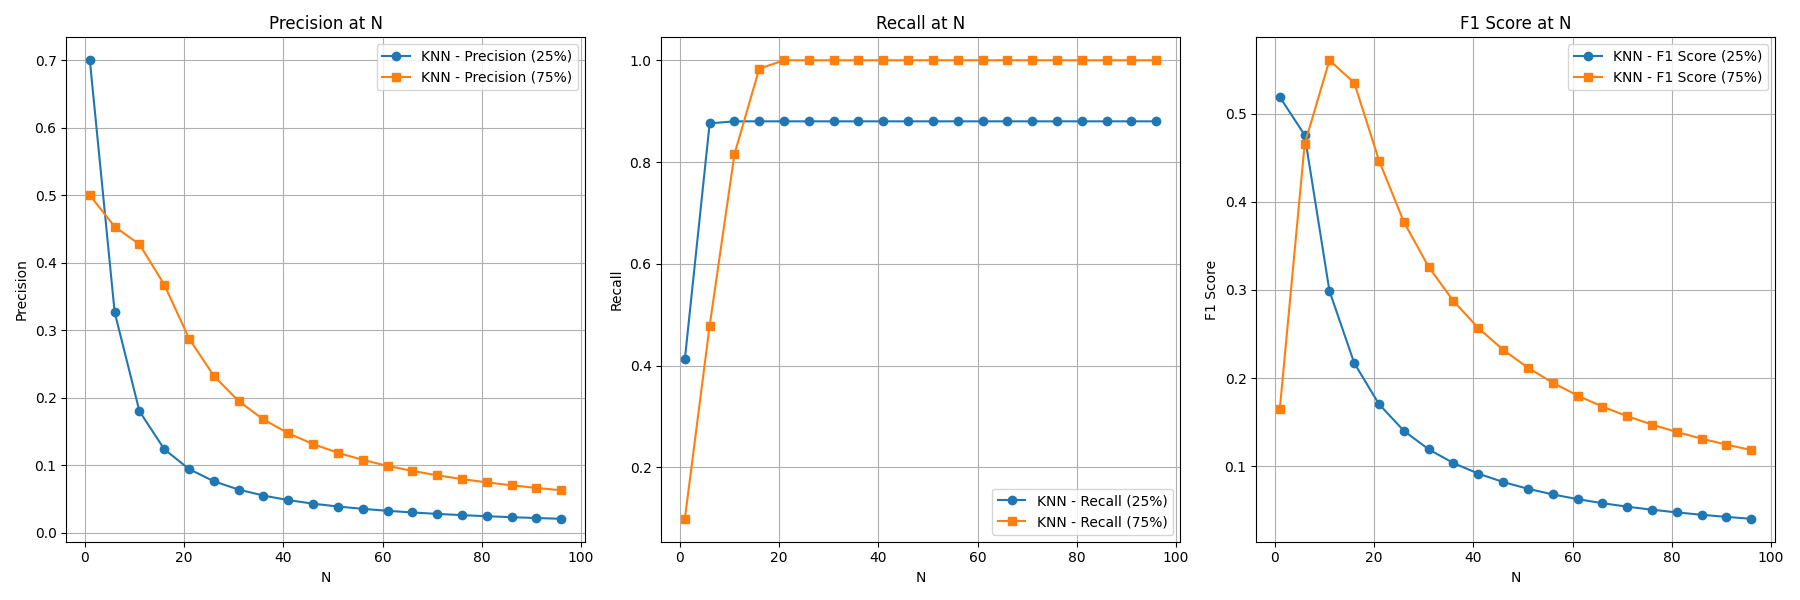
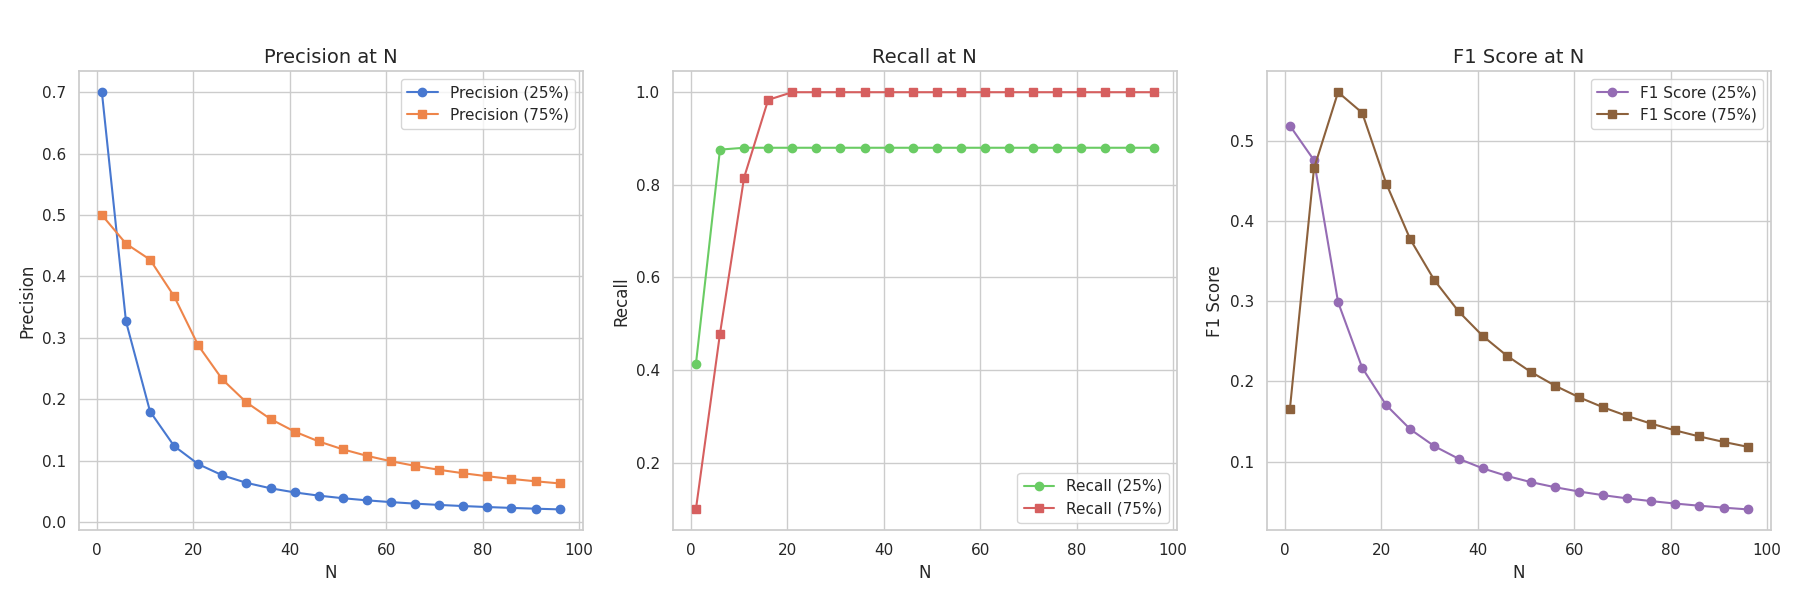
Improve tasks and readme

diff --git a/task2.py b/task2.py
@@ -3,6 +3,7 @@ from collections import defaultdict
 import matplotlib.pyplot as plt
 import numpy as np
 import pandas as pd
+import seaborn as sns
 from surprise import SVD, Dataset, KNNWithMeans, Reader
 from surprise.accuracy import mae
 from surprise.model_selection import train_test_split
@@ -61,21 +62,32 @@ def calculate_f1_score(precision, recall):
     )
 
 
-def plot_comparison_metrics(metrics):
+def plot_comparison_metrics(metrics_25, metrics_75):
     """
-    Plot comparison metrics in a 2 by 2 grid.
+    Plot comparison metrics.
     """
-    fig, axs = plt.subplots(2, 2, figsize=(12, 10))
-    colors = ["brown", "orange"]
-
     metrics_titles = ["MAE", "Precision", "Recall", "F1 Score"]
-    for i, metric in enumerate(metrics_titles):
-        row, col = divmod(i, 2)
-        axs[row, col].bar(
-            ["SVD", "KNN"], [metrics["SVD"][i], metrics["KNN"][i]], color=colors
-        )
-        axs[row, col].set_title(f"{metric} Comparison")
-        axs[row, col].set_ylabel(metric)
+    svd_25 = metrics_25["SVD"]
+    knn_25 = metrics_25["KNN"]
+    svd_75 = metrics_75["SVD"]
+    knn_75 = metrics_75["KNN"]
+
+    sns.set(style="whitegrid")
+    plt.figure(figsize=(12, 8))
+
+    x = np.arange(len(metrics_titles))
+    width = 0.2
+
+    palette = sns.color_palette("Set2")
+    plt.bar(x - 1.5 * width, svd_25, width, label="SVD (25%)", color=palette[0])
+    plt.bar(x - 0.5 * width, knn_25, width, label="K-NN (25%)", color=palette[1])
+    plt.bar(x + 0.5 * width, svd_75, width, label="SVD (75%)", color=palette[2])
+    plt.bar(x + 1.5 * width, knn_75, width, label="K-NN (75%)", color=palette[3])
+
+    plt.xlabel("Metrics", fontsize=14)
+    plt.ylabel("Score", fontsize=14)
+    plt.xticks(ticks=x, labels=metrics_titles, fontsize=12)
+    plt.legend(title="Models and Test Ratios", title_fontsize="13", fontsize=11)
 
     plt.tight_layout()
     plt.show()
@@ -101,42 +113,33 @@ def evaluate_model(algo, train_set, test_set, n=5, threshold=4):
 def main():
     data = load_csv()
 
-    # Split dataset
-    train_set, test_set = train_test_split(
-        data, test_size=0.75, random_state=22
-    )  # 75% missing ratings
+    # Metrics storage for both split cases
+    metrics_25 = {"SVD": [], "KNN": []}
+    metrics_75 = {"SVD": [], "KNN": []}
 
-    # SVD Model Evaluation
-    algo_svd = SVD(random_state=3)
-    mae_svd, pre_svd, recall_svd, f1_svd = evaluate_model(algo_svd, train_set, test_set)
+    for test_size, metrics in [(0.25, metrics_25), (0.75, metrics_75)]:
+        # Split dataset based on the specified test size
+        train_set, test_set = train_test_split(
+            data, test_size=test_size, random_state=22
+        )
 
-    # KNN Model Evaluation
-    sim_options_knn = {
-        "name": "pearson",
-        "user_based": True,
-    }
-    algo_knn = KNNWithMeans(k=10, sim_options=sim_options_knn, verbose=False)
-    mae_knn, pre_knn, recall_knn, f1_knn = evaluate_model(algo_knn, train_set, test_set)
+        # SVD Model Evaluation
+        algo_svd = SVD(random_state=3)
+        mae_svd, pre_svd, recall_svd, f1_svd = evaluate_model(
+            algo_svd, train_set, test_set
+        )
+        metrics["SVD"] = [mae_svd, pre_svd, recall_svd, f1_svd]
 
-    # Print results
-    print("SVD Model Results:")
-    print(f"MAE: {mae_svd}")
-    print(f"Precision: {pre_svd}")
-    print(f"Recall: {recall_svd}")
-    print(f"F1 Score: {f1_svd}")
-
-    print("\nKNN Model Results:")
-    print(f"MAE: {mae_knn}")
-    print(f"Precision: {pre_knn}")
-    print(f"Recall: {recall_knn}")
-    print(f"F1 Score: {f1_knn}")
+        # KNN Model Evaluation
+        sim_options_knn = {"name": "pearson", "user_based": True}
+        algo_knn = KNNWithMeans(k=10, sim_options=sim_options_knn, verbose=False)
+        mae_knn, pre_knn, recall_knn, f1_knn = evaluate_model(
+            algo_knn, train_set, test_set
+        )
+        metrics["KNN"] = [mae_knn, pre_knn, recall_knn, f1_knn]
 
     # Plot results
-    metrics = {
-        "SVD": [mae_svd, pre_svd, recall_svd, f1_svd],
-        "KNN": [mae_knn, pre_knn, recall_knn, f1_knn],
-    }
-    plot_comparison_metrics(metrics)
+    plot_comparison_metrics(metrics_25, metrics_75)
 
 
 if __name__ == "__main__":

diff --git a/task3.py b/task3.py
@@ -4,6 +4,7 @@ from tkinter import N
 import matplotlib.pyplot as plt
 import numpy as np
 import pandas as pd
+import seaborn as sns
 from surprise import SVD, Dataset, KNNWithMeans, Reader
 from surprise.model_selection import train_test_split
 
@@ -81,44 +82,48 @@ def plot_results(results_25, results_75, N_list, model_name):
     precision_list_25, recall_list_25, f1_list_25 = results_25
     precision_list_75, recall_list_75, f1_list_75 = results_75
 
+    sns.set(style="whitegrid")
+    palette = sns.color_palette("muted")
+
     _, axes = plt.subplots(1, 3, figsize=(18, 6))
 
-    # Plot Precision
     axes[0].plot(
-        N_list, precision_list_25, marker="o", label=f"{model_name} - Precision (25%)"
+        N_list, precision_list_25, marker="o", color=palette[0], label="Precision (25%)"
     )
     axes[0].plot(
-        N_list, precision_list_75, marker="s", label=f"{model_name} - Precision (75%)"
+        N_list, precision_list_75, marker="s", color=palette[1], label="Precision (75%)"
     )
-    axes[0].set_title("Precision at N")
-    axes[0].set_xlabel("N")
-    axes[0].set_ylabel("Precision")
+    axes[0].set_title("Precision at N", fontsize=14)
+    axes[0].set_xlabel("N", fontsize=12)
+    axes[0].set_ylabel("Precision", fontsize=12)
     axes[0].legend()
     axes[0].grid(True)
 
-    # Plot Recall
     axes[1].plot(
-        N_list, recall_list_25, marker="o", label=f"{model_name} - Recall (25%)"
+        N_list, recall_list_25, marker="o", color=palette[2], label="Recall (25%)"
     )
     axes[1].plot(
-        N_list, recall_list_75, marker="s", label=f"{model_name} - Recall (75%)"
+        N_list, recall_list_75, marker="s", color=palette[3], label="Recall (75%)"
     )
-    axes[1].set_title("Recall at N")
-    axes[1].set_xlabel("N")
-    axes[1].set_ylabel("Recall")
+    axes[1].set_title("Recall at N", fontsize=14)
+    axes[1].set_xlabel("N", fontsize=12)
+    axes[1].set_ylabel("Recall", fontsize=12)
     axes[1].legend()
     axes[1].grid(True)
 
-    # Plot F1 Score
-    axes[2].plot(N_list, f1_list_25, marker="o", label=f"{model_name} - F1 Score (25%)")
-    axes[2].plot(N_list, f1_list_75, marker="s", label=f"{model_name} - F1 Score (75%)")
-    axes[2].set_title("F1 Score at N")
-    axes[2].set_xlabel("N")
-    axes[2].set_ylabel("F1 Score")
+    axes[2].plot(
+        N_list, f1_list_25, marker="o", color=palette[4], label="F1 Score (25%)"
+    )
+    axes[2].plot(
+        N_list, f1_list_75, marker="s", color=palette[5], label="F1 Score (75%)"
+    )
+    axes[2].set_title("F1 Score at N", fontsize=14)
+    axes[2].set_xlabel("N", fontsize=12)
+    axes[2].set_ylabel("F1 Score", fontsize=12)
     axes[2].legend()
     axes[2].grid(True)
 
-    plt.tight_layout()
+    plt.tight_layout(rect=[0, 0, 1, 0.95])
     plt.show()
 
 

diff --git a/task1.py b/task1.py
@@ -1,7 +1,7 @@
 import matplotlib.pyplot as plt
-from surprise import Dataset, KNNBasic, accuracy
+import seaborn as sns
+from surprise import Dataset, KNNBasic, Reader, accuracy
 from surprise.model_selection import train_test_split
-from surprise.reader import Reader
 
 
 def main():
@@ -11,7 +11,6 @@ def main():
 
     test_sizes = [0.25, 0.75]
     mae_results = {0.25: [], 0.75: []}
-
     k_values = range(1, 50)
 
     for test_size in test_sizes:
@@ -20,21 +19,31 @@ def main():
         for k in k_values:
             algo = KNNBasic(k=k, sim_options={"user_based": True})
             algo.fit(train_set)
-
             predictions = algo.test(test_set)
-
             mae = accuracy.mae(predictions, verbose=False)
             mae_results[test_size].append(mae)
 
-    plt.figure(figsize=(12, 6))
+    sns.set(style="whitegrid")
+    plt.figure(figsize=(14, 7))
+    sns.lineplot(
+        x=k_values,
+        y=mae_results[0.25],
+        label="25% Missing Ratings",
+        marker="o",
+        color="b",
+    )
+    sns.lineplot(
+        x=k_values,
+        y=mae_results[0.75],
+        label="75% Missing Ratings",
+        marker="s",
+        color="orange",
+    )
 
-    plt.plot(k_values, mae_results[0.25], label="25% Missing Ratings", marker="o")
-    plt.plot(k_values, mae_results[0.75], label="75% Missing Ratings", marker="s")
-
-    plt.xlabel("K (Number of Neighbors)")
-    plt.ylabel("MAE (Mean Absolute Error)")
-    plt.legend()
-    plt.grid()
+    plt.xlabel("K (Number of Neighbors)", fontsize=14)
+    plt.ylabel("MAE (Mean Absolute Error)", fontsize=14)
+    plt.legend(title="Dataset Split", loc="upper right", fontsize=12)
+    plt.grid(visible=True)
 
     plt.show()
 

diff --git a/README.md b/README.md
@@ -1,6 +1,6 @@
 # Collaborative Filtering Benchmarking
 
-This repository contains the solution for collaborative filtering tasks, implemented with Python’s Surprise library. The project includes optimizing user-based K-Nearest Neighbors (K-N) by tuning the number of neighbors (K) to minimize Mean Absolute Error (MAE) under different levels of sparsity, addressing sparsity issues with SVD (Singular Value Decomposition) and its Funk variant, and comparing the performance of K-NN and SVD in generating Top-N recommendations with varying levels of missing ratings.
+This repository contains the solution for collaborative filtering tasks, implemented with Python’s Surprise library. The project includes optimizing user-based K-Nearest Neighbors (K-NN) by tuning the number of neighbors (K) to minimize Mean Absolute Error (MAE) under different levels of sparsity, addressing sparsity issues with SVD (Singular Value Decomposition) and its Funk variant, and comparing the performance of K-NN and SVD in generating Top-N recommendations with varying levels of missing ratings.
 
 ## Setup
 
@@ -48,7 +48,7 @@ The MAE is consistently lower for the 25% missing ratings case across all K valu
 
 <br>
 <div align="center">
-  <img src="figures/task1.png" width="900" height="auto"/>
+  <img src="figures/task1.png" width="800" height="auto"/>
   <br><br>
   <em>MAE vs. K for 25% and 75% missing ratings.</em>
 </div>
@@ -56,8 +56,8 @@ The MAE is consistently lower for the 25% missing ratings case across all K valu
 
 For both sparsity levels, it MAE decreases as K increases, reaching a minimum before leveling off or slightly increasing. For this dataset the optimal K values are:
 
-- 25% missing ratings: the lowest MAE = 0.779 occurs around K = 22.
-- 75% missing ratings: the lowest MAE = 0.822 occurs around K = 24.
+- 25% missing ratings: 22 with MAE equal to 0.779.
+- 75% missing ratings: 24 with MAE equal to 0.822.
 
 ## Task 2
 
@@ -73,17 +73,9 @@ In case of 25% missing ratings, Funk SVD yields a higher MAE than K-NN, while in
 
 <br>
 <div align="center">
-  <img src="figures/task2_25.png" width="900" height="auto"/>
+  <img src="figures/task2.png" width="800" height="auto"/>
   <br><br>
-  <em>MEA, Precision, Recall, and F1 comparison between K-NN and Funk SVD (25% missing ratings).</em>
-</div>
-<br>
-
-<br>
-<div align="center">
-  <img src="figures/task2_75.png" width="900" height="auto"/>
-  <br><br>
-  <em>MEA, Precision, Recall, and F1 comparison between K-NN and Funk SVD (75% missing ratings).</em>
+  <em>MAE, Precision, Recall, and F1 Score comparison between K-NN and Funk SVD.</em>
 </div>
 <br>
 
@@ -102,12 +94,13 @@ In case of 25% missing ratings, Funk SVD yields a higher MAE than K-NN, while in
 As N increases, precision decreases while recall remains high. With higher N, the model recommends more items, which increases recall (capturing more relevant items) but reduces precision (introducing more irrelevant items). For both 25% and 75% missing ratings, recall stays high, indicating that relevant items are mostly retrieved, while precision drops with larger N. The F1 score reflects this trade-off, peaking at smaller N and decreasing as N grows, particularly under higher sparsity. Both K-NN and SVD models show similar performance, suggesting that their predictive capabilities are comparable in this scenario.
 
 Best K for K-NN model:
-- 25% missing ratings: 20 with F1 Score: 0.138
-- 75% missing ratings: 5 with F1 Score: 0.261
+
+- 25% missing ratings: 20 with F1 Score equal to 0.138.
+- 75% missing ratings: 5 with F1 Score: equal to 0.261.
 
 <br>
 <div align="center">
-  <img src="figures/task3_knn.png" width="1600" height="auto"/>
+  <img src="figures/task3_knn.png" width="1200" height="auto"/>
   <br><br>
   <em>Precision, Recall, and F1 Score for K-NN with 25% and 75% missing ratings.</em>
 </div>
@@ -115,7 +108,7 @@ Best K for K-NN model:
 
 <br>
 <div align="center">
-  <img src="figures/task3_svd.png" width="1600" height="auto"/>
+  <img src="figures/task3_svd.png" width="1200" height="auto"/>
   <br><br>
   <em>Precision, Recall, and F1 Score for SVD with 25% and 75% missing ratings.</em>
 </div>
